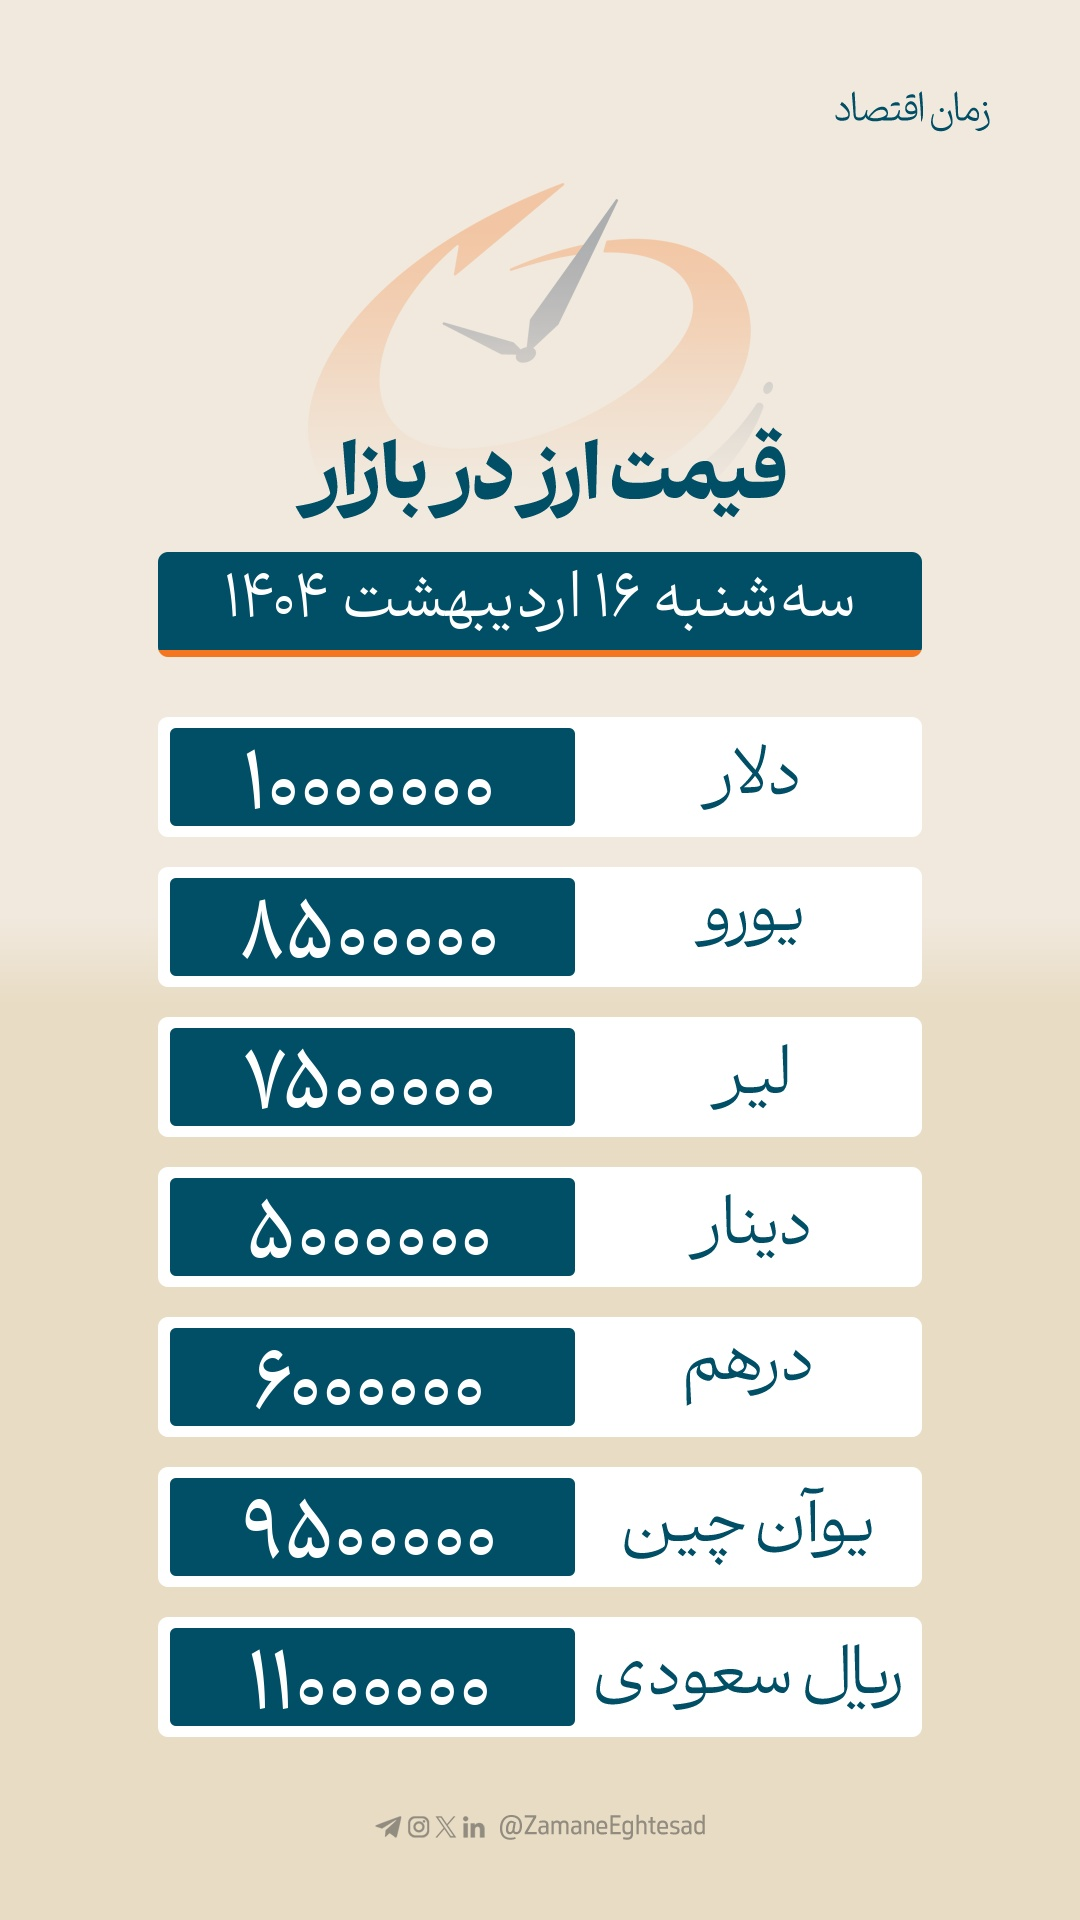
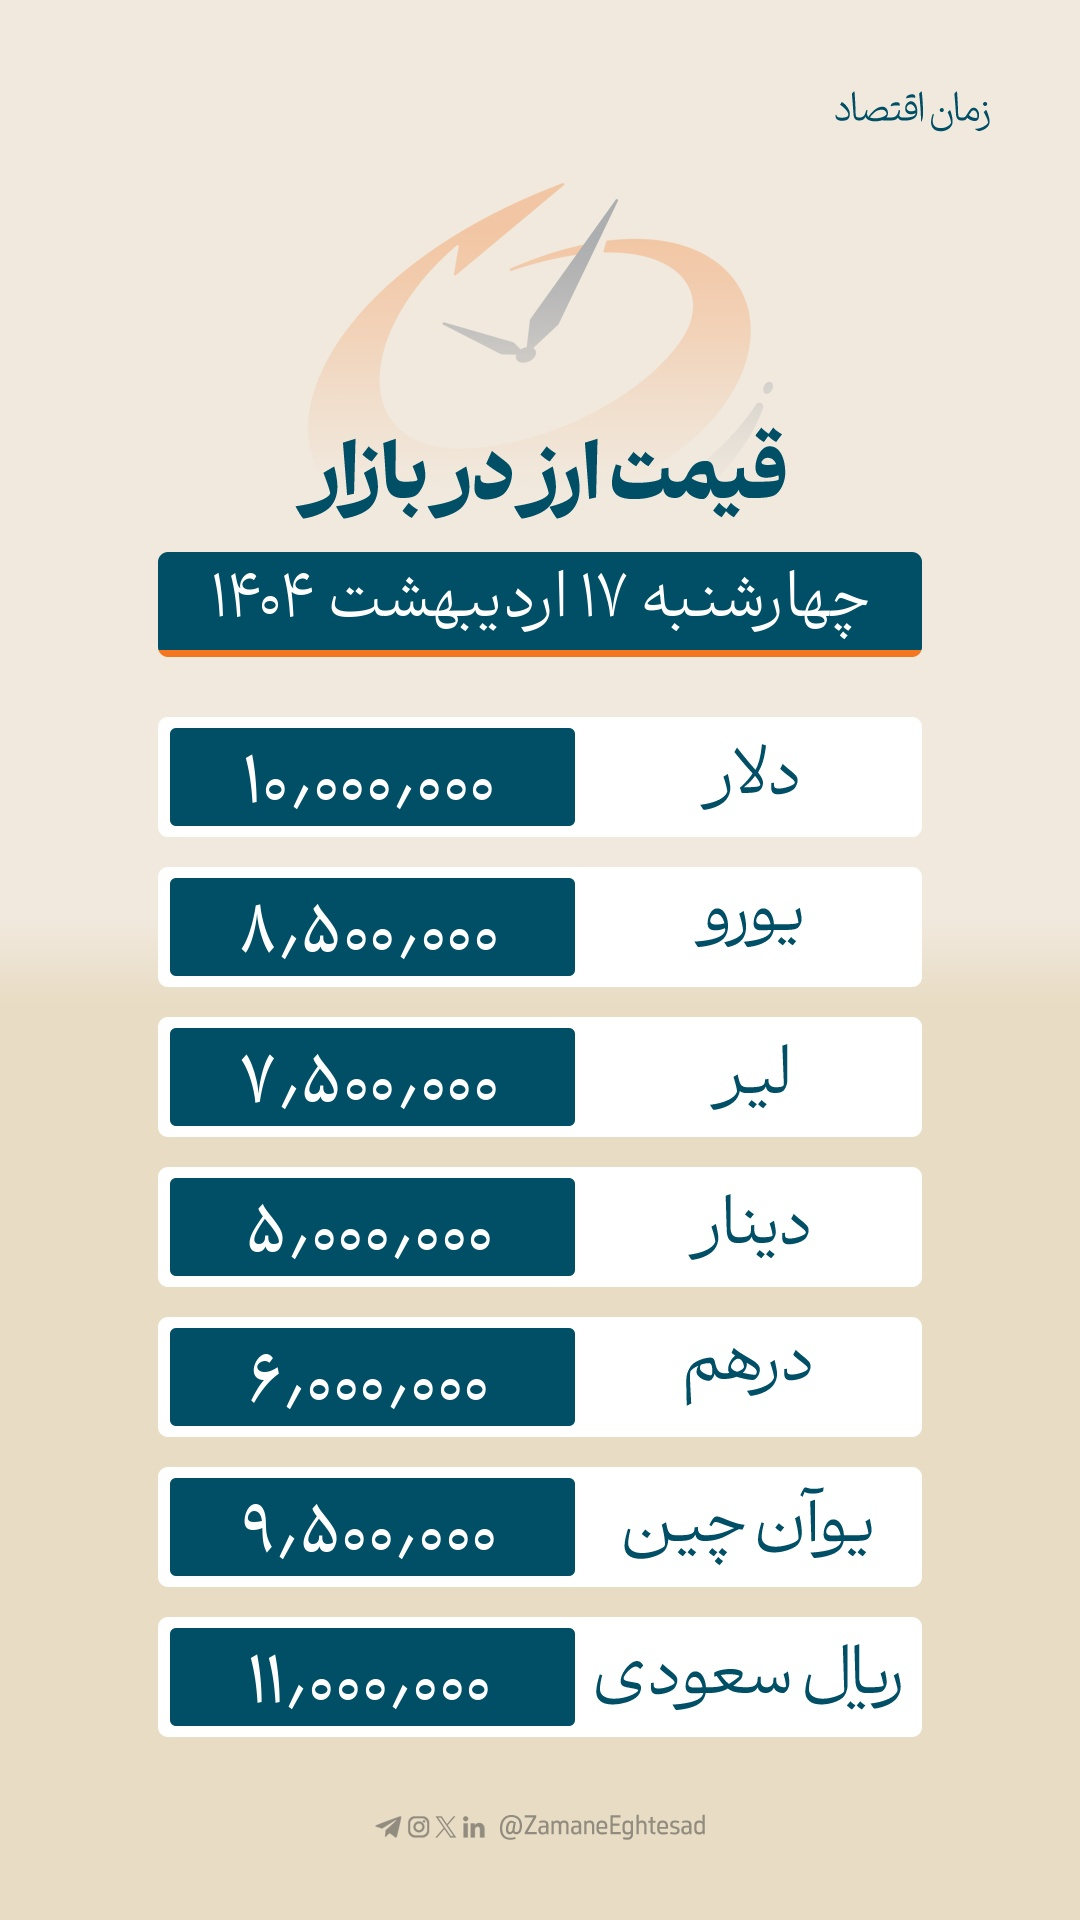
","

diff --git a/src/craft/Currency.py b/src/craft/Currency.py
@@ -1,7 +1,9 @@
 from PIL import Image, ImageDraw
-from text_utils import draw_text_no_box, draw_text_in_box
-from date_util import shamsi, arabic, georgian, day_of_week
+from text_utils import draw_text_no_box
+from date_util import shamsi, day_of_week
 import argparse
+import re
+from typing import Union
 
 DEFAULT_IS_RTL: bool = False
 
@@ -20,6 +22,32 @@ def to_farsi_numerals(text: str) -> str:
         "9": "۹",
     }
     return "".join(western_to_farsi.get(ch, ch) for ch in text)
+
+_persian2latin = str.maketrans("۰۱۲۳۴۵۶۷۸۹", "0123456789")
+_thousands_sep  = "٫"        # U+066C  (looks right‑to‑left, unlike ‘,’)
+
+def normalise_number(raw: str) -> int:
+    """
+    1) Bring every digit to Latin 0‑9
+    2) Treat Persian decimal mark (٫) and ASCII dot as the SAME
+    3) Throw away everything else
+    4) If you still have >1 dot, the dots were thousands‑seps ⇒ drop them
+    """
+    s = raw.translate(_persian2latin)
+    s = s.replace("٫", ".")
+    # keep only digits or a dot
+    s = re.sub(r"[^0-9.]", "", s)
+
+    if s.count(".") > 1:          # they were thousands‑separators
+        s = s.replace(".", "")
+    return int(float(s))          # works even if user typed a decimal fraction
+
+def farsi_fmt(num: Union[int, str]) -> str:
+    """Return a nicely‑grouped Persian string such as ۸٬۵۶۸٬۰۷۴٬۳۰۰"""
+    if isinstance(num, str):
+        num = normalise_number(num)
+    s = f"{num:,}".replace(",", _thousands_sep)     # add RTL comma
+    return to_farsi_numerals(s)
 
 
 def create_currency_post(
@@ -73,7 +101,7 @@ def create_currency_post(
     currencyFontSize = 65
     draw_text_no_box(
         draw,
-        to_farsi_numerals(Dollar),
+        farsi_fmt(Dollar).replace(".","٫"),
         fonts["currency"],
         *positions["Dollar"],
         alignment="center",
@@ -83,7 +111,7 @@ def create_currency_post(
     )
     draw_text_no_box(
         draw,
-        to_farsi_numerals(Euro),
+        farsi_fmt(Euro),
         fonts["currency"],
         *positions["Euro"],
         alignment="center",
@@ -93,7 +121,7 @@ def create_currency_post(
     )
     draw_text_no_box(
         draw,
-        to_farsi_numerals(Lira),
+        farsi_fmt(Lira),
         fonts["currency"],
         *positions["Lira"],
         alignment="center",
@@ -103,7 +131,7 @@ def create_currency_post(
     )
     draw_text_no_box(
         draw,
-        to_farsi_numerals(Dinar),
+        farsi_fmt(Dinar),
         fonts["currency"],
         *positions["Dinar"],
         alignment="center",
@@ -113,7 +141,7 @@ def create_currency_post(
     )
     draw_text_no_box(
         draw,
-        to_farsi_numerals(Dirham),
+        farsi_fmt(Dirham),
         fonts["currency"],
         *positions["Dirham"],
         alignment="center",
@@ -123,7 +151,7 @@ def create_currency_post(
     )
     draw_text_no_box(
         draw,
-        to_farsi_numerals(ChineseYuan),
+        farsi_fmt(ChineseYuan),
         fonts["currency"],
         *positions["ChineseYuan"],
         alignment="center",
@@ -133,7 +161,7 @@ def create_currency_post(
     )
     draw_text_no_box(
         draw,
-        to_farsi_numerals(SaudiRiyal),
+        farsi_fmt(SaudiRiyal),
         fonts["currency"],
         *positions["SaudiRiyal"],
         alignment="center",
@@ -147,18 +175,18 @@ def create_currency_post(
     base_img.convert("RGB").save(output_path, format="JPEG", quality=95)
 
 
-# if __name__ == "__main__":
-#     # Example usage: pass custom currency values with more zeros and specify an output path.
-#     create_currency_post(
-#         Dollar="10000000",
-#         Euro="8500000",
-#         Lira="7500000",
-#         Dinar="5000000",
-#         Dirham="6000000",
-#         ChineseYuan="9500000",
-#         SaudiRiyal="11000000",
-#         output_path="./OutPut/Currency_example.jpeg",
-#     )
+if __name__ == "__main__":
+    # Example usage: pass custom currency values with more zeros and specify an output path.
+    create_currency_post(
+        Dollar="10000000",
+        Euro="8500000",
+        Lira="7500000",
+        Dinar="5000000",
+        Dirham="6000000",
+        ChineseYuan="9500000",
+        SaudiRiyal="11000000",
+        output_path="./OutPut/Currency_example.jpeg",
+    )
 
 if __name__ == "__main__":
     parser = argparse.ArgumentParser(
